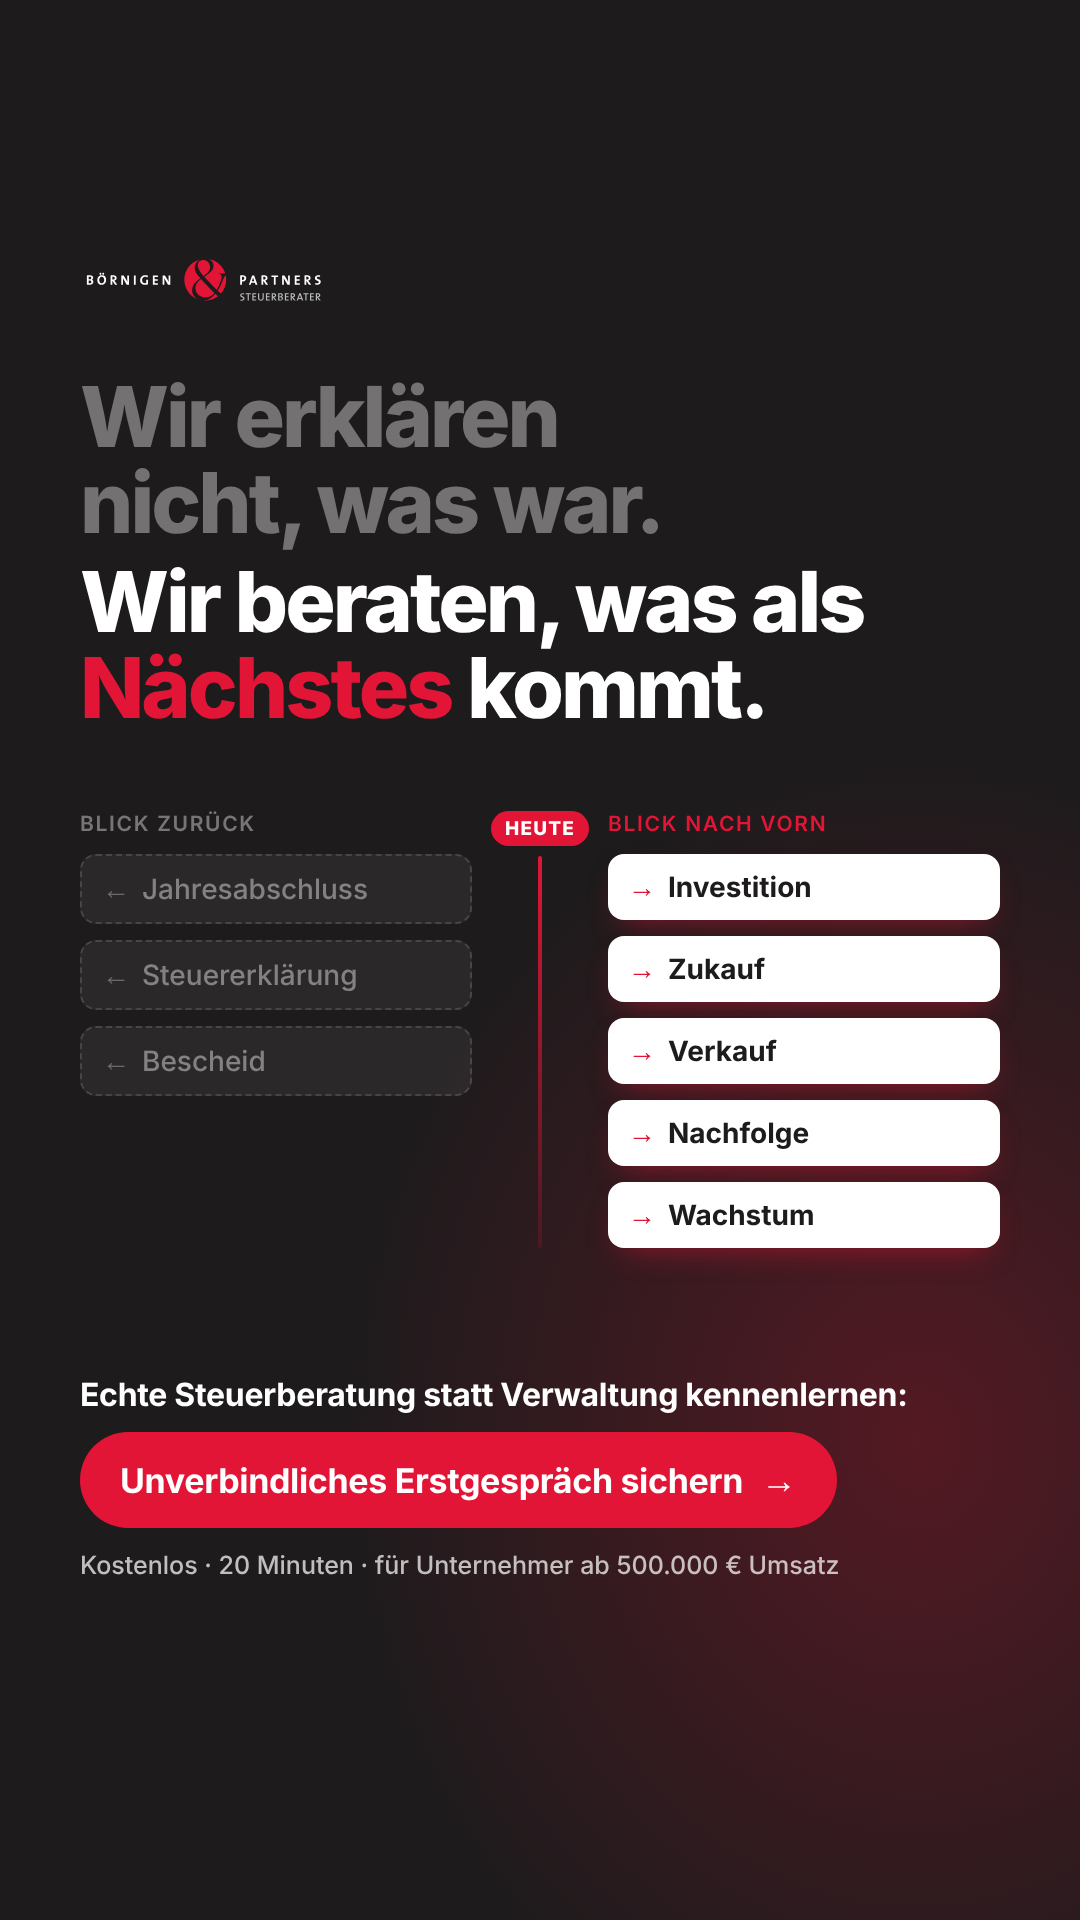
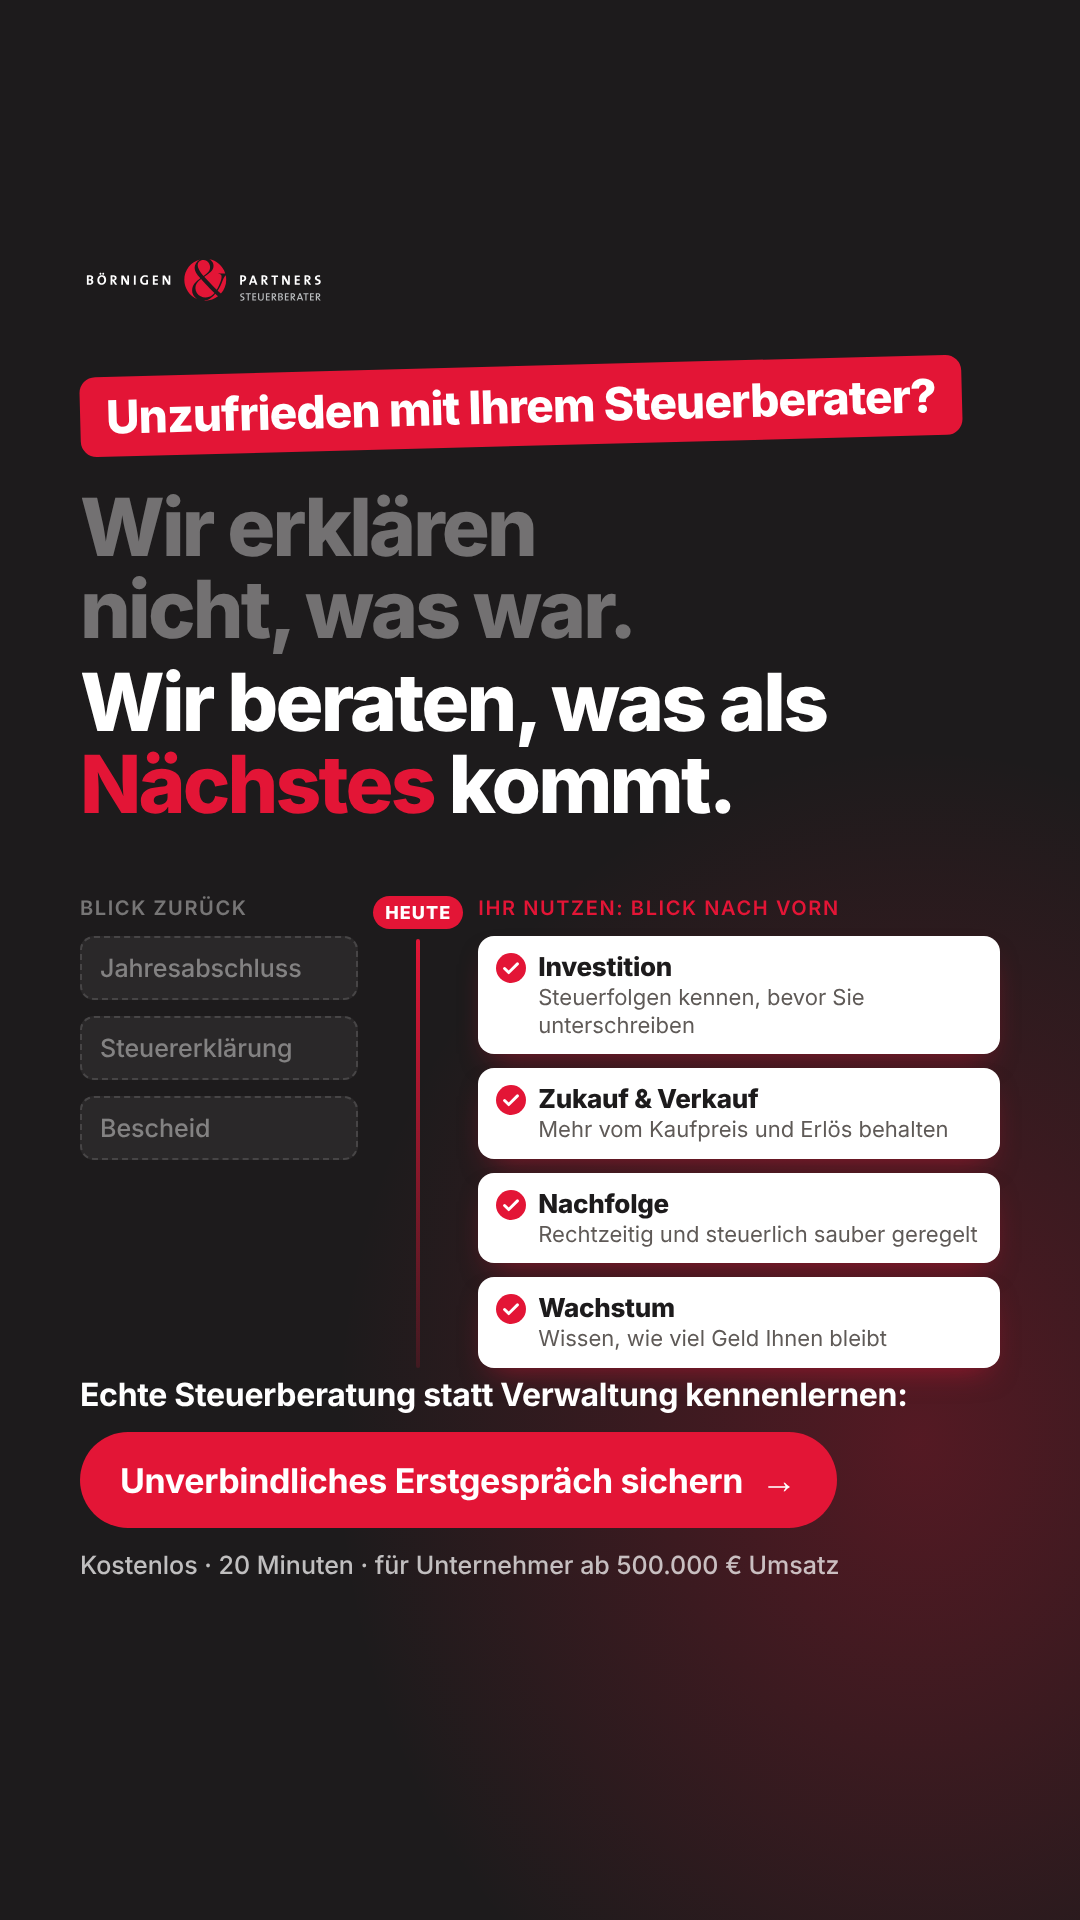
Ads 6+7: Nutzen für den Mandanten statt Themenliste, direkte Hooks mit klarem Steuerberater-Bezug
Claude-Session: https://claude.ai/code/session_013Sw6D2jrT1B8PfEzLq9952

Changed region(s): [[0.0611, 0.1875, 0.9472, 0.7188]]

diff --git a/docs/meta-ads.md b/docs/meta-ads.md
@@ -17,7 +17,7 @@ Passend zur Landingpage https://boernigen-partner.kanzleianfrage.de. Jeder Angle
 | 4   | Lohn ohne Excel-Chaos                 | Neuer Weg (#12)        | weiß, vorher/nachher               | ganzjährig, für Firmen mit Team             |
 | 5   | Ihr Steuerberater meldet sich zuerst  | Future Projection (#9) | Foto Petra Börnigen                | ganzjährig, gut für Retargeting             |
 | 6   | Blick nach vorn (Jans Positionierung) | Anti-Mainstream (#15)  | dunkel, Blick zurück vs. nach vorn | ganzjährig, Abgrenzung zu anderen Kanzleien |
-| 7   | Selbst Finanzchef gewesen             | Wertebasiert (#8)      | Foto Jan Börnigen, Werdegang       | ganzjährig, gut für Retargeting             |
+| 7   | Nächster Steuerberater: Ex-Finanzchef | Wertebasiert (#8)      | Foto Jan Börnigen, Werdegang       | ganzjährig, gut für Retargeting             |
 
 **Testplan:**
 
@@ -211,24 +211,26 @@ Basiert auf Jan Börnigens Positionierung (E-Mail vom 23.10.). Grenzt die Kanzle
 
 **Struktur:** Hook → Konfrontation → Neuer Gedanke → Beispiel / Beweis → CTA
 
-| Baulig-Baustein       | Text                                                                                                                                                                                                                                                                                         |
-| --------------------- | -------------------------------------------------------------------------------------------------------------------------------------------------------------------------------------------------------------------------------------------------------------------------------------------- |
-| **Hook**              | Vergessen Sie den Blick in den Rückspiegel. Wir erklären nicht, was war. Wir beraten, was als Nächstes kommt.                                                                                                                                                                                |
-| **Konfrontation**     | Die meisten Steuerberater liefern den Blick zurück: Abschluss, Erklärung, Bescheid. Das ist notwendig. Aber es hilft nicht bei der Frage, die Sie als Unternehmer wirklich beschäftigt: Was tun wir jetzt? Wie steuere ich mein Unternehmen?                                                 |
-| **Neuer Gedanke**     | Der Unterschied liegt im Zeitpunkt. Die steuerlichen Folgen einer Entscheidung gehören auf den Tisch, bevor Sie entscheiden, nicht ein Jahr später in den Bescheid.                                                                                                                          |
-| **Beispiel / Beweis** | Jan Börnigen war Finanzchef einer Konzerneinheit und später im Controlling und M&A eines Medienkonzerns. Er hat Entscheidungen vorbereitet, umgesetzt und verantwortet. Diese Perspektive bringen wir in die Beratung ein: strategisch, mit Zahlen und mit den steuerlichen Folgen im Blick. |
-| **CTA**               | Weiterentwicklung, Investition, Zukauf, Verkauf oder Nachfolge? Lernen Sie echte Steuerberatung statt Verwaltung kennen. 👉 Jetzt unverbindliches Erstgespräch sichern: kostenlos, 20 Minuten, für Unternehmer ab 500.000 € Umsatz im Raum München.                                          |
+| Baulig-Baustein       | Text                                                                                                                                                                                                                                                                                                                                                                                                                                                  |
+| --------------------- | ----------------------------------------------------------------------------------------------------------------------------------------------------------------------------------------------------------------------------------------------------------------------------------------------------------------------------------------------------------------------------------------------------------------------------------------------------- |
+| **Hook**              | Unzufrieden mit Ihrem Steuerberater? Vielleicht, weil er Ihnen erklärt, was war, aber nicht, was als Nächstes kommt. Bei uns ist es umgekehrt.                                                                                                                                                                                                                                                                                                        |
+| **Konfrontation**     | Die meisten Steuerberater liefern den Blick zurück: Abschluss, Erklärung, Bescheid. Das ist notwendig. Aber es hilft nicht bei der Frage, die Sie als Unternehmer wirklich beschäftigt: Was tun wir jetzt? Wie steuere ich mein Unternehmen?                                                                                                                                                                                                          |
+| **Neuer Gedanke**     | Der Unterschied liegt im Zeitpunkt. Die steuerlichen Folgen einer Entscheidung gehören auf den Tisch, bevor Sie entscheiden, nicht ein Jahr später in den Bescheid. Für Sie heißt das: Bei einer Investition kennen Sie die Steuerfolgen, bevor Sie unterschreiben. Beim Zukauf oder Verkauf bleibt mehr vom Kaufpreis und Erlös. Die Nachfolge ist rechtzeitig und steuerlich sauber geregelt. Und Sie wissen jederzeit, wie viel Geld Ihnen bleibt. |
+| **Beispiel / Beweis** | Jan Börnigen war Finanzchef einer Konzerneinheit und später im Controlling und M&A eines Medienkonzerns. Er hat Entscheidungen vorbereitet, umgesetzt und verantwortet. Diese Perspektive bringen wir in die Beratung ein: strategisch, mit Zahlen und mit den steuerlichen Folgen im Blick.                                                                                                                                                          |
+| **CTA**               | Weiterentwicklung, Investition, Zukauf, Verkauf oder Nachfolge? Lernen Sie echte Steuerberatung statt Verwaltung kennen. 👉 Jetzt unverbindliches Erstgespräch sichern: kostenlos, 20 Minuten, für Unternehmer ab 500.000 € Umsatz im Raum München.                                                                                                                                                                                                   |
 
 **Primärtext zum Kopieren**
 
 ```text
-Vergessen Sie den Blick in den Rückspiegel.
+Unzufrieden mit Ihrem Steuerberater?
 
-Wir erklären nicht, was war. Wir beraten, was als Nächstes kommt.
+Vielleicht, weil er Ihnen erklärt, was war, aber nicht, was als Nächstes kommt. Bei uns ist es umgekehrt.
 
 Die meisten Steuerberater liefern den Blick zurück: Abschluss, Erklärung, Bescheid. Das ist notwendig. Aber es hilft nicht bei der Frage, die Sie als Unternehmer wirklich beschäftigt: Was tun wir jetzt? Wie steuere ich mein Unternehmen?
 
 Der Unterschied liegt im Zeitpunkt. Die steuerlichen Folgen einer Entscheidung gehören auf den Tisch, bevor Sie entscheiden, nicht ein Jahr später in den Bescheid.
+
+Für Sie heißt das: Bei einer Investition kennen Sie die Steuerfolgen, bevor Sie unterschreiben. Beim Zukauf oder Verkauf bleibt mehr vom Kaufpreis und Erlös. Die Nachfolge ist rechtzeitig und steuerlich sauber geregelt. Und Sie wissen jederzeit, wie viel Geld Ihnen bleibt.
 
 Jan Börnigen war Finanzchef einer Konzerneinheit und später im Controlling und M&A eines Medienkonzerns. Er hat Entscheidungen vorbereitet, umgesetzt und verantwortet. Diese Perspektive bringen wir in die Beratung ein: strategisch, mit Zahlen und mit den steuerlichen Folgen im Blick.
 
@@ -243,28 +245,32 @@ Weiterentwicklung, Investition, Zukauf, Verkauf oder Nachfolge? Lernen Sie echte
 
 ---
 
-## 7 · „Selbst Finanzchef gewesen“ · Wertebasierte Ad (Baulig #8)
+## 7 · „Ihr nächster Steuerberater war selbst Finanzchef“ · Wertebasierte Ad (Baulig #8)
 
 In Jans Ich-Form, passend zum Foto im Creative. Läuft über die Unternehmensseite, deshalb mit Namen unterschrieben.
 
 **Struktur:** Hook → Story oder Beispiel → Brücke zum Angebot → Wertebestätigung → CTA
 
-| Baulig-Baustein         | Text                                                                                                                                                                                                                                                                     |
-| ----------------------- | ------------------------------------------------------------------------------------------------------------------------------------------------------------------------------------------------------------------------------------------------------------------------ |
-| **Hook**                | Mir war es immer wichtig, die Folgen einer Entscheidung zu kennen, bevor ich sie treffe. Nicht erst danach.                                                                                                                                                              |
-| **Story oder Beispiel** | Als Finanzchef einer Konzerneinheit und später im Controlling und M&A eines Medienkonzerns habe ich Entscheidungen vorbereitet, durchgeführt und verantwortet. Bei Investitionen, Zukäufen und Verkäufen reicht es nicht, im Nachhinein zu erklären, was passiert ist.   |
-| **Brücke zum Angebot**  | Genau diese Perspektive bringe ich heute als Steuerberater in die Beratung von Unternehmern ein: strategisch, mit Zahlen und mit den steuerlichen Folgen im Blick, bevor Sie entscheiden.                                                                                |
-| **Wertebestätigung**    | Wenn Sie einen Steuerberater suchen, der nicht nur erklärt, was war, sondern mit Ihnen plant, was als Nächstes kommt, dann passen wir zusammen.                                                                                                                          |
-| **CTA**                 | Weiterentwicklung, Investition, Zukauf, Verkauf, Nachfolge? Reden wir darüber, wie wir Ihr Unternehmen voranbringen, im kostenlosen Erstgespräch (20 Minuten). 👉 Für Unternehmer ab 500.000 € Umsatz im Raum München. Jetzt Termin sichern. Jan Börnigen, Steuerberater |
+| Baulig-Baustein         | Text                                                                                                                                                                                                                                                                                                                                                                                                                         |
+| ----------------------- | ---------------------------------------------------------------------------------------------------------------------------------------------------------------------------------------------------------------------------------------------------------------------------------------------------------------------------------------------------------------------------------------------------------------------------- |
+| **Hook**                | Verkauf, Zukauf oder Nachfolge geplant – und Ihr Steuerberater schaut nur auf das letzte Jahr? Mir war es immer wichtig, die Folgen einer Entscheidung zu kennen, bevor ich sie treffe. Nicht erst danach.                                                                                                                                                                                                                   |
+| **Story oder Beispiel** | Als Finanzchef einer Konzerneinheit und später im Controlling und M&A eines Medienkonzerns habe ich Entscheidungen vorbereitet, durchgeführt und verantwortet. Bei Investitionen, Zukäufen und Verkäufen reicht es nicht, im Nachhinein zu erklären, was passiert ist.                                                                                                                                                       |
+| **Brücke zum Angebot**  | Genau diese Perspektive bringe ich heute als Steuerberater in die Beratung von Unternehmern ein: strategisch, mit Zahlen und mit den steuerlichen Folgen im Blick, bevor Sie entscheiden. Für Sie heißt das: Sie kennen die steuerlichen Folgen, bevor Sie entscheiden. Sie haben Zahlen, auf die Sie sich verlassen können. Und Sie haben einen Sparringspartner auf Augenhöhe, ohne einen Finanzchef einstellen zu müssen. |
+| **Wertebestätigung**    | Wenn Sie einen Steuerberater suchen, der nicht nur erklärt, was war, sondern mit Ihnen plant, was als Nächstes kommt, dann passen wir zusammen.                                                                                                                                                                                                                                                                              |
+| **CTA**                 | Weiterentwicklung, Investition, Zukauf, Verkauf, Nachfolge? Reden wir darüber, wie wir Ihr Unternehmen voranbringen, im kostenlosen Erstgespräch (20 Minuten). 👉 Für Unternehmer ab 500.000 € Umsatz im Raum München. Jetzt Termin sichern. Jan Börnigen, Steuerberater                                                                                                                                                     |
 
 **Primärtext zum Kopieren**
 
 ```text
+Verkauf, Zukauf oder Nachfolge geplant – und Ihr Steuerberater schaut nur auf das letzte Jahr?
+
 Mir war es immer wichtig, die Folgen einer Entscheidung zu kennen, bevor ich sie treffe. Nicht erst danach.
 
 Als Finanzchef einer Konzerneinheit und später im Controlling und M&A eines Medienkonzerns habe ich Entscheidungen vorbereitet, durchgeführt und verantwortet. Bei Investitionen, Zukäufen und Verkäufen reicht es nicht, im Nachhinein zu erklären, was passiert ist.
 
 Genau diese Perspektive bringe ich heute als Steuerberater in die Beratung von Unternehmern ein: strategisch, mit Zahlen und mit den steuerlichen Folgen im Blick, bevor Sie entscheiden.
+
+Für Sie heißt das: Sie kennen die steuerlichen Folgen, bevor Sie entscheiden. Sie haben Zahlen, auf die Sie sich verlassen können. Und Sie haben einen Sparringspartner auf Augenhöhe, ohne einen Finanzchef einstellen zu müssen.
 
 Wenn Sie einen Steuerberater suchen, der nicht nur erklärt, was war, sondern mit Ihnen plant, was als Nächstes kommt, dann passen wir zusammen.
 
@@ -275,6 +281,6 @@ Weiterentwicklung, Investition, Zukauf, Verkauf, Nachfolge? Reden wir darüber, 
 Jan Börnigen, Steuerberater
 ```
 
-- **Überschrift:** Ihr Steuerberater war selbst Finanzchef
+- **Überschrift:** Ihr nächster Steuerberater war selbst Finanzchef
 - **Beschreibung:** Erstgespräch mit Jan Börnigen · 20 Minuten
 - **Creatives:** `feed/07-selbst-finanzchef-4x5.png` · `story/07-selbst-finanzchef-9x16.png`
